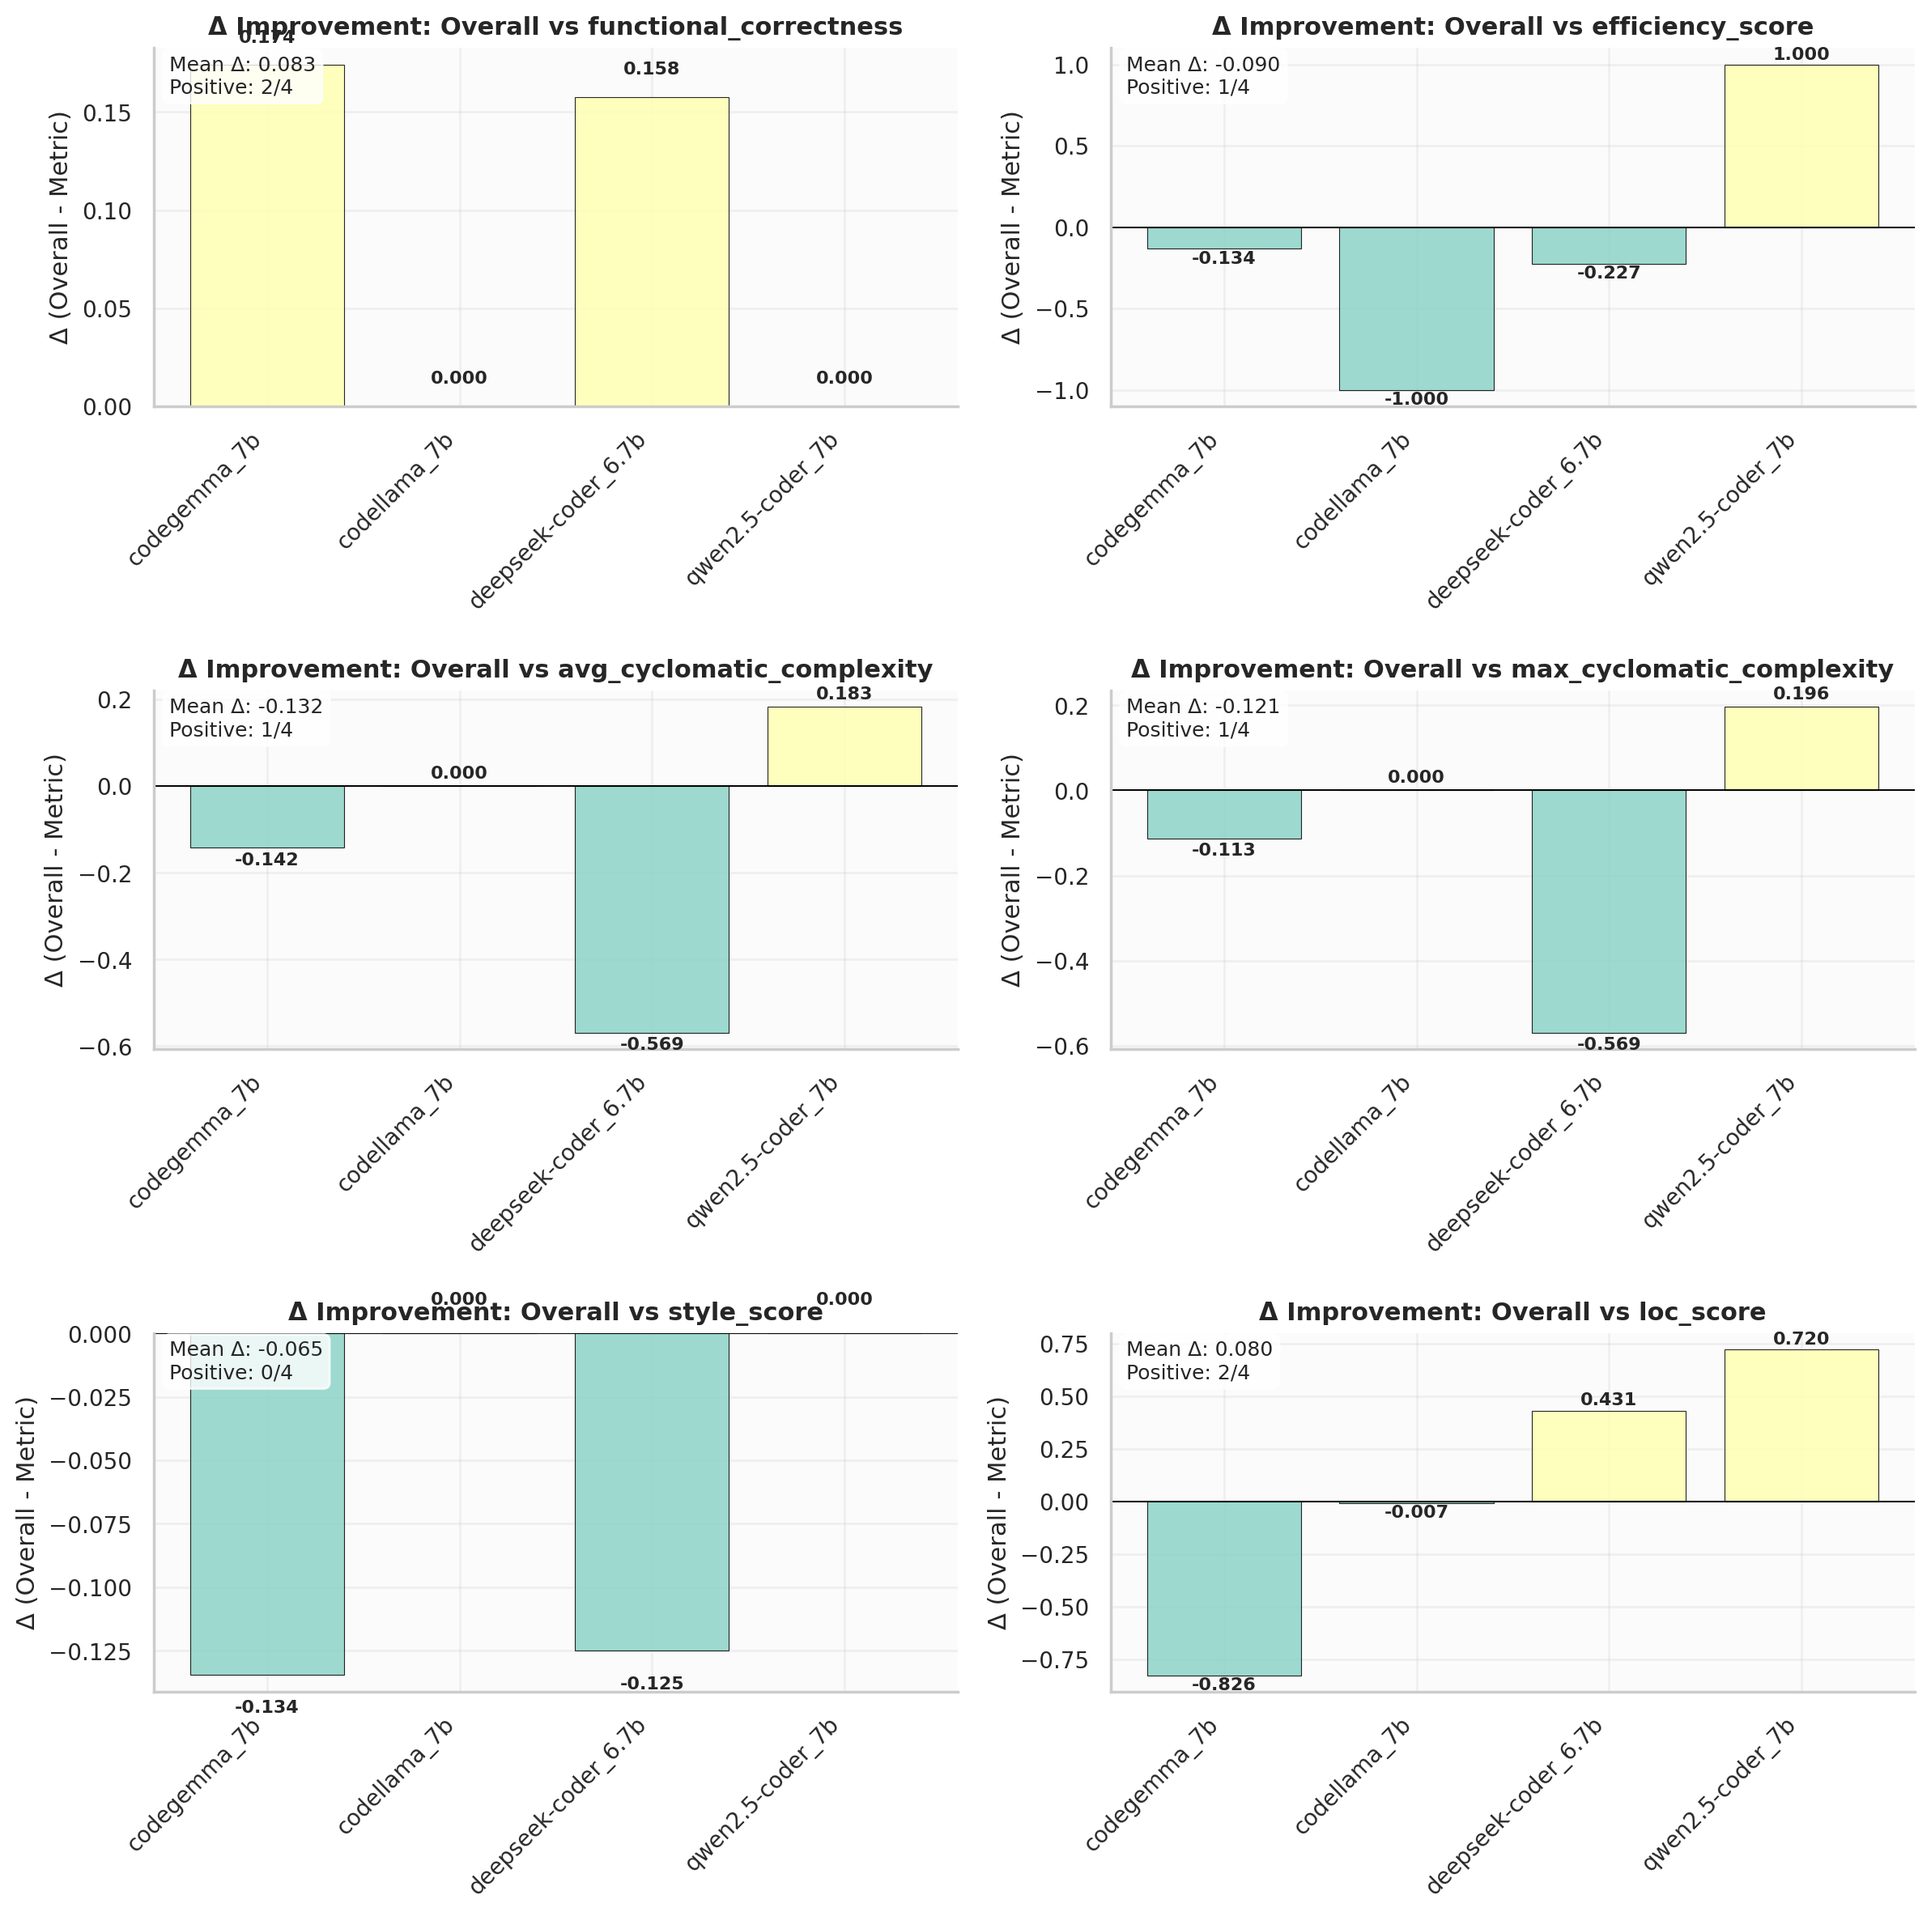
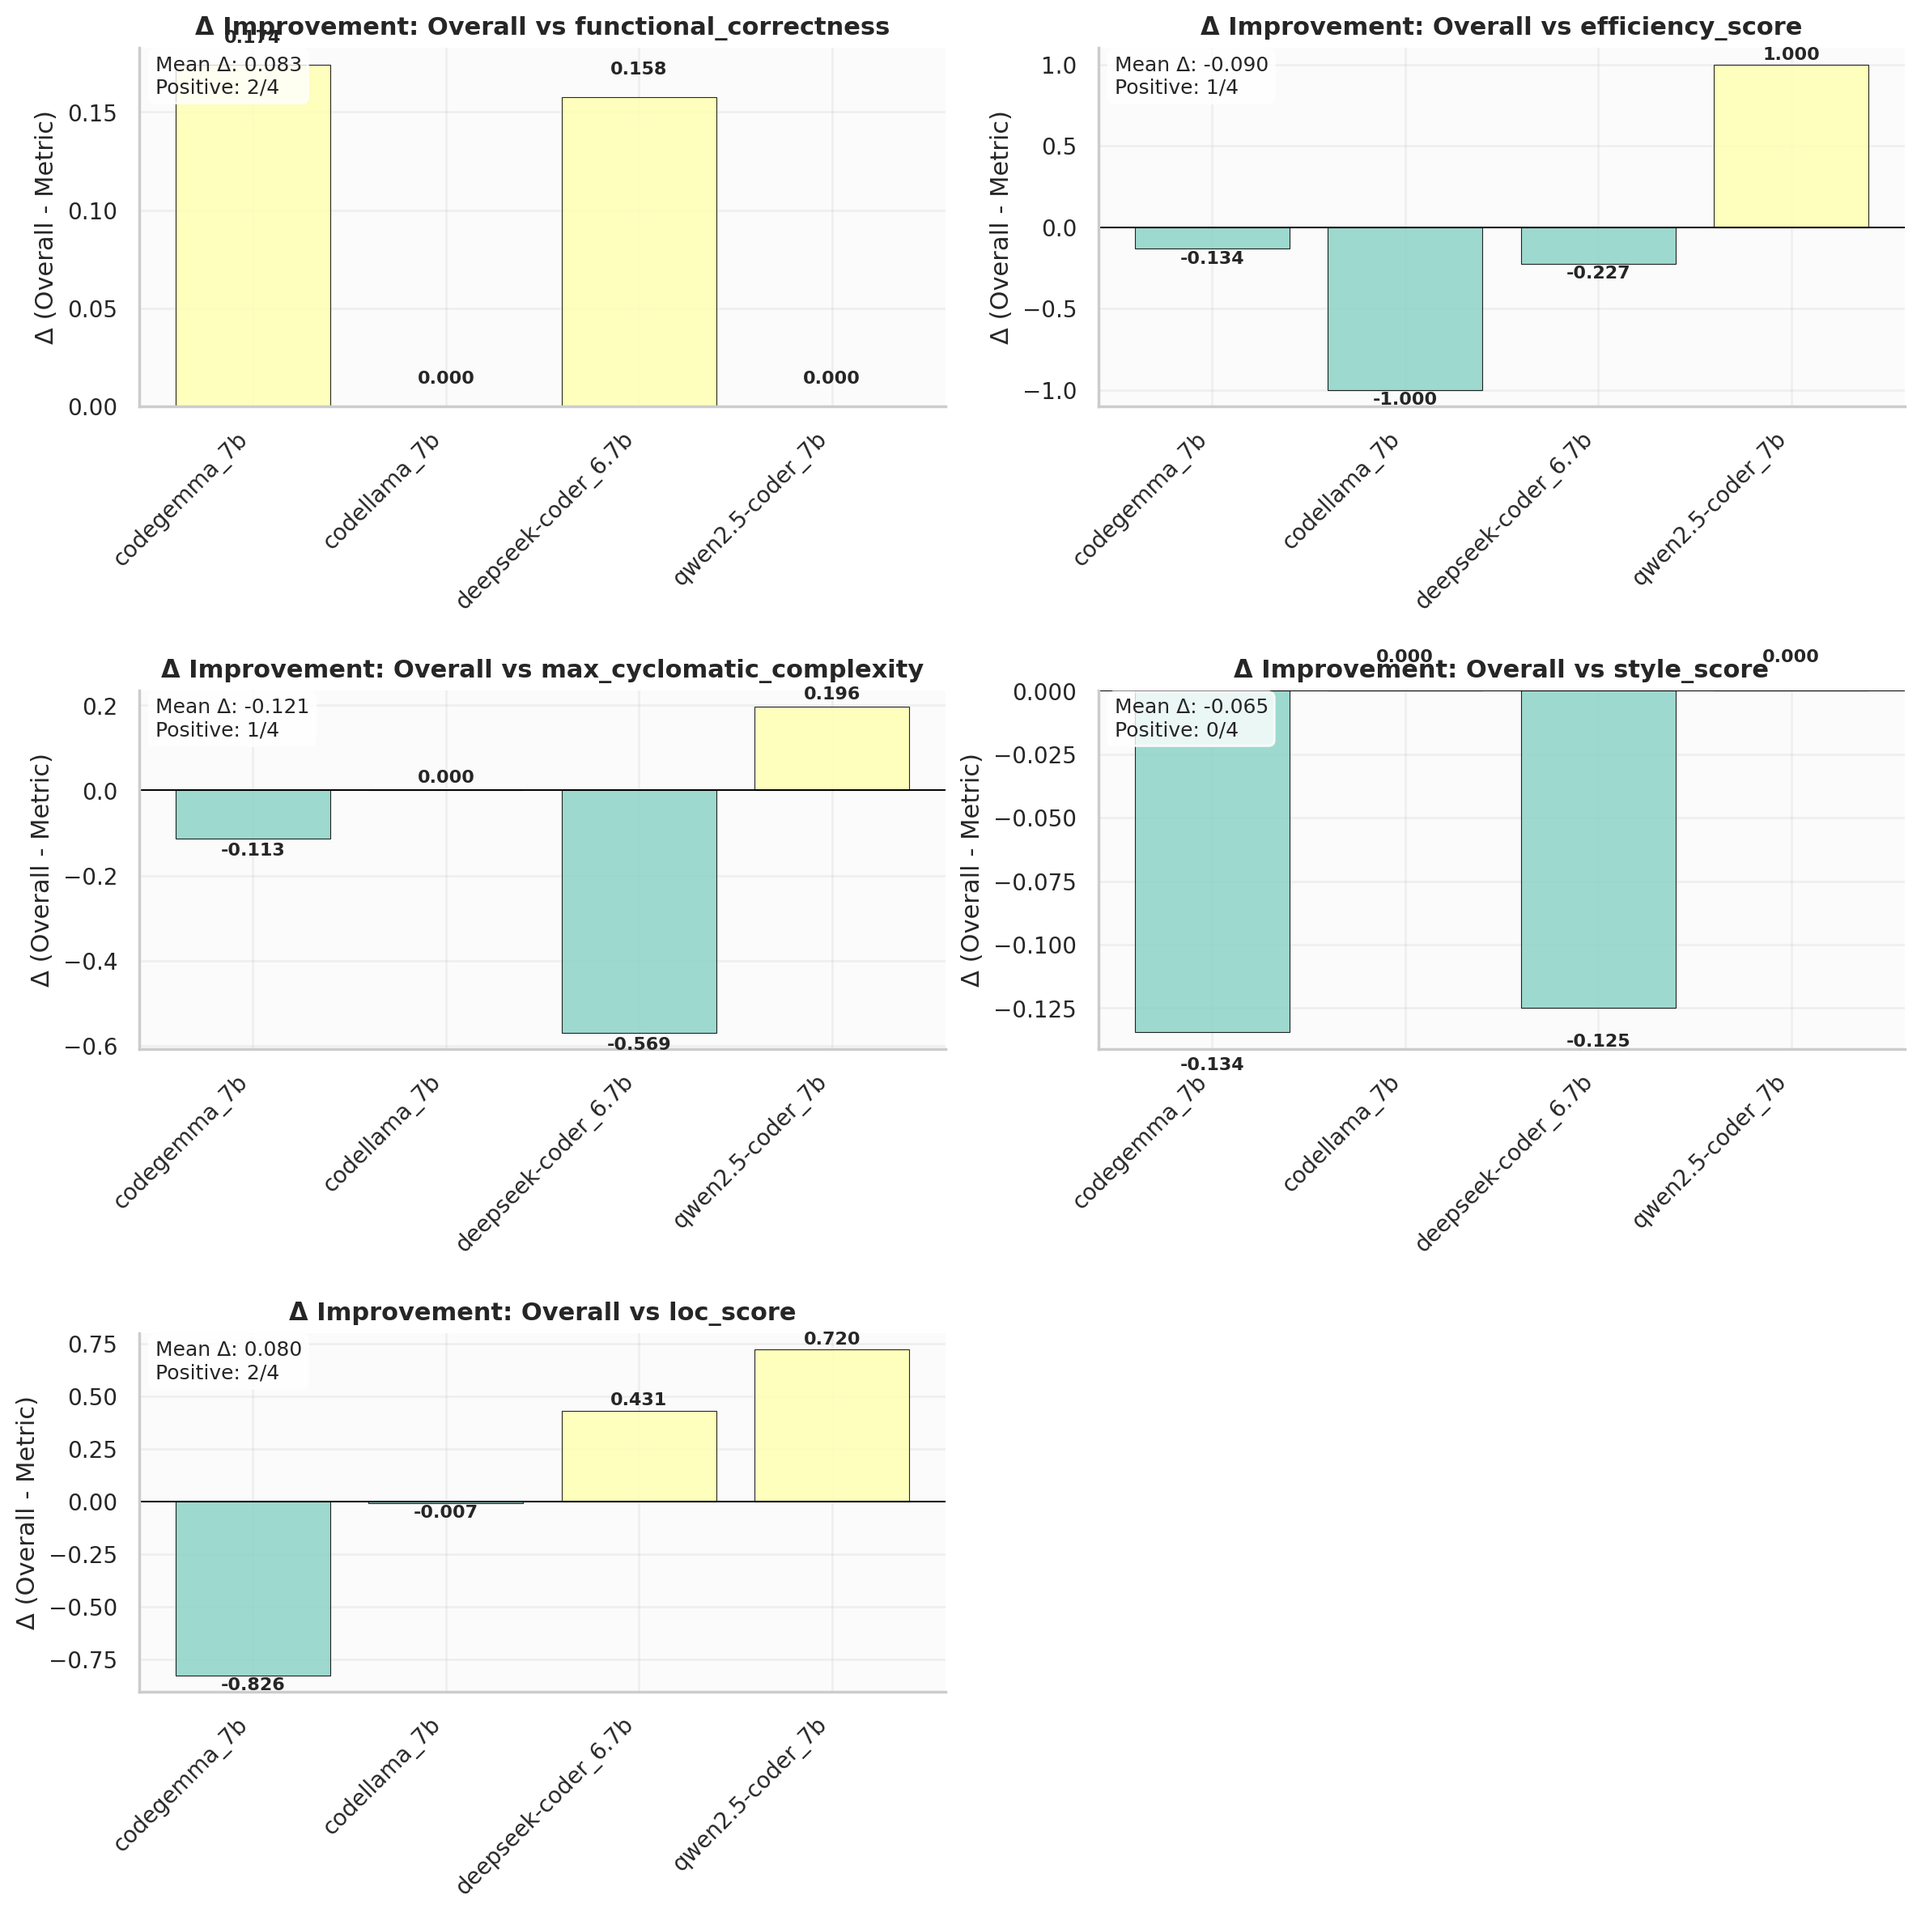
removed avg complexity from graphs

diff --git a/scripts/overall_score.py b/scripts/overall_score.py
@@ -15,13 +15,12 @@ OUTPUT_DIR.mkdir(parents=True, exist_ok=True)
 PREFERRED_METRICS = [
     "functional_correctness",
     "efficiency_score",
-    "avg_cyclomatic_complexity",
     "max_cyclomatic_complexity",
     "style_score",
     "loc_score",
 ]
 
-#theme
+# theme
 sns.set_theme(style="whitegrid", rc={
     "axes.spines.right": False,
     "axes.spines.top": False,
@@ -636,6 +635,7 @@ def plot_metrics_heatmap(df: pd.DataFrame, metrics: list = None, output_dir: Pat
         if mx == mn:
             normalized[col] = 0.5
             continue
+        # Treat cyclomatic complexity and loc_score as "lower is better"
         if "cyclomatic_complexity" in col.lower() or col == "loc_score":
             normalized[col] = (mx - normalized[col]) / (mx - mn)   # lower → better
         else:
@@ -669,7 +669,6 @@ def plot_metrics_heatmap(df: pd.DataFrame, metrics: list = None, output_dir: Pat
         "overall_score": "Overall Score",
         "functional_correctness": "Func. Correctness",
         "efficiency_score": "Efficiency",
-        "avg_cyclomatic_complexity": "Avg Cyclomatic",
         "max_cyclomatic_complexity": "Max Cyclomatic",
         "style_score": "Code Style",
         "loc_score": "LOC Score",
